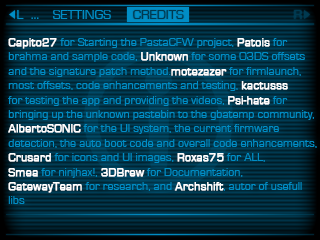
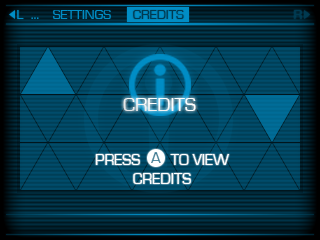
New bootmenu and credits menu

diff --git a/rxtools/source/MainMenu.h b/rxtools/source/MainMenu.h
@@ -208,16 +208,35 @@ void SettingsMenuInit(){
 	}
 }
 
+void BootMenuInit(){
+	char str[100];
+	sprintf(str, "/rxTools/Theme/%c/boot0.bin", Theme);//DRAW TOP SCREEN TO SEE THE NEW THEME
+	DrawBottomSplash(str);
+	while (true) {
+		u32 pad_state = InputWait();
+		if (pad_state & BUTTON_Y) rxModeEmu();      //Boot emunand
+		else if (pad_state & BUTTON_X) rxModeSys(); //Boot sysnand
+		else if (pad_state & BUTTON_B) break; //Boot sysnand
+	}
+}
+
+void CreditsMenuInit(){
+	char str[100];
+	sprintf(str, "/rxTools/Theme/%c/credits.bin", Theme);//DRAW TOP SCREEN TO SEE THE NEW THEME
+	DrawBottomSplash(str);
+	WaitForButton(BUTTON_B);
+}
+
 static Menu MainMenu = {
 		"rxTools - Roxas75 [v2.6]",
 		.Option = (MenuEntry[7]){
-			{ " Launch rxMode", NULL, "menu0.bin" },
+			{ " Launch rxMode", &BootMenuInit, "menu0.bin" },
 			{ " Decryption Options", &DecryptMenuInit, "menu1.bin" },
 			{ " Dumping Options", &DumpMenuInit, "menu2.bin" },
 			{ " Injection Options", &InjectMenuInit, "menu3.bin" },
 			{ " Advanced Options", &AdvancedMenuInit, "menu4.bin" },
 			{ " Settings", &SettingsMenuInit, "menu5.bin" },
-			{ " Credits", NULL, "menu6.bin" },
+			{ " Credits", &CreditsMenuInit, "menu6.bin" },
 		},
 		7,
 		0,

diff --git a/rxtools/source/main.c b/rxtools/source/main.c
@@ -63,6 +63,9 @@ void Initialize(){
 	InstallConfigData();
 	LoadSettings();
 
+	sprintf(str, "/rxTools/Theme/%c/TOP.bin", Theme);
+	DrawTopSplash(str);
+
 	if (!bootGUI)
 	{
 		for (int i = 0; i < 0x333333 * 6; i++){
@@ -105,11 +108,6 @@ int main(){
 		if (pad_state & (BUTTON_DOWN | BUTTON_RIGHT | BUTTON_R1)) MenuNextSelection(); //I try to support every theme style
 		if (pad_state & (BUTTON_UP   | BUTTON_LEFT  | BUTTON_L1)) MenuPrevSelection();
 		if(pad_state & BUTTON_A)    	MenuSelect();
-		if (MyMenu->Current == 0) //If we're in the boot screen
-		{
-			if (pad_state & BUTTON_Y) rxModeEmu();      //Boot emunand
-			else if (pad_state & BUTTON_X) rxModeSys(); //Boot sysnand
-		}
 		if(pad_state & BUTTON_SELECT)	returnHomeMenu();
 		if(pad_state & BUTTON_START)	ShutDown();
 		TryScreenShot();
